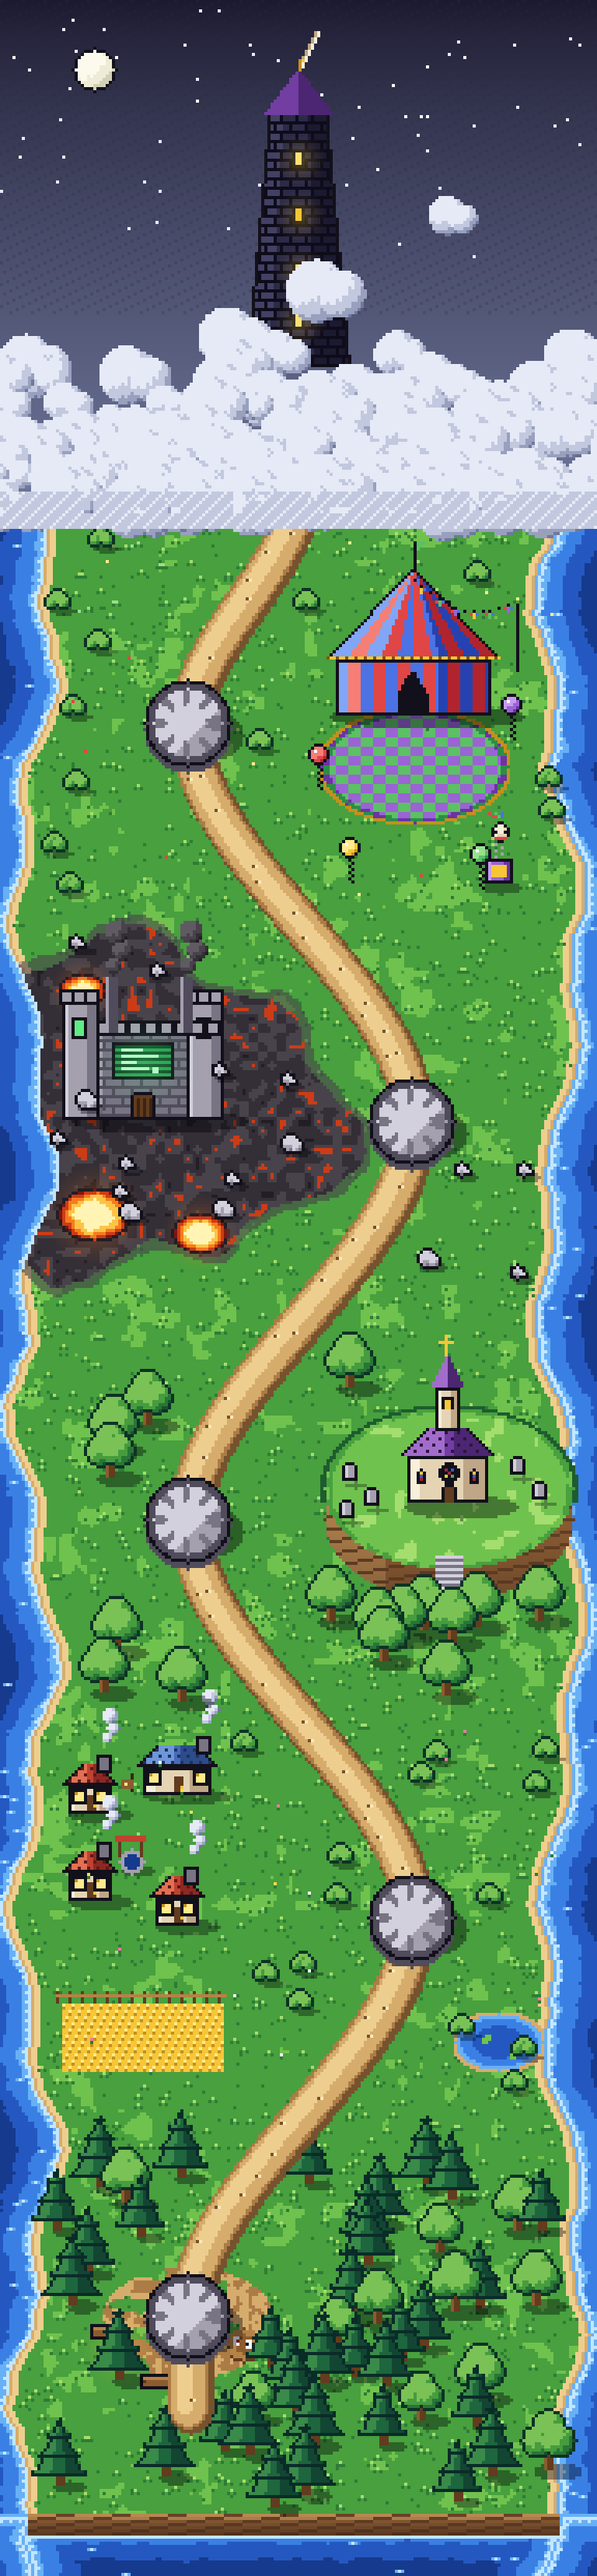
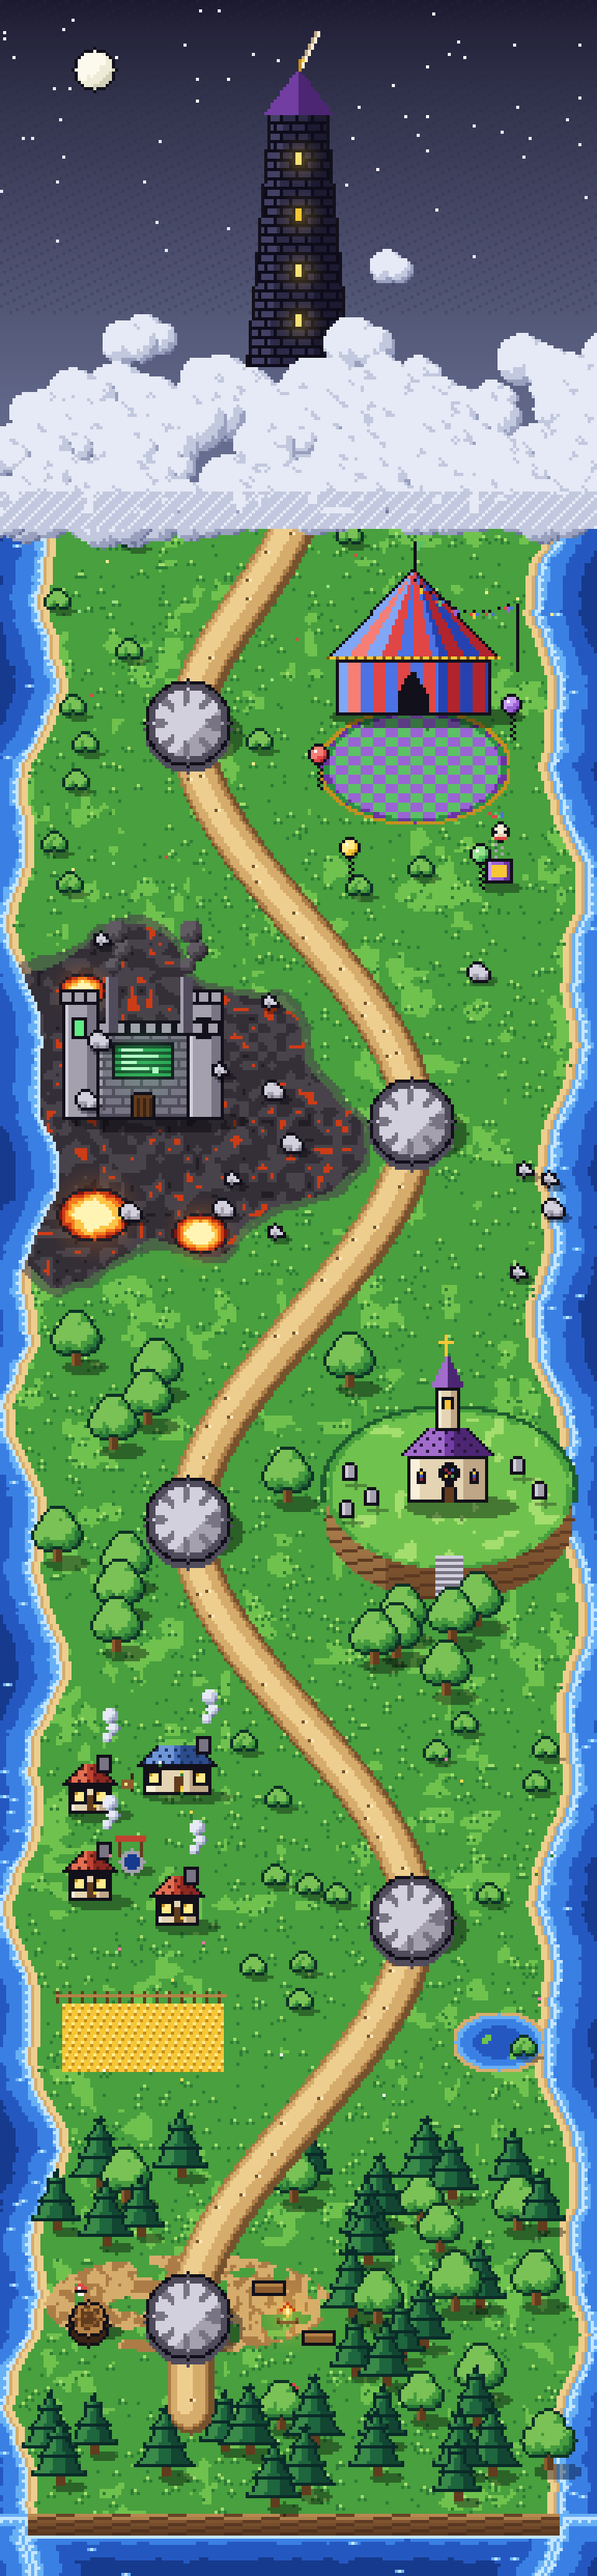
Map nodes always play their cutscene
Tapping a node, or continuing to the next one from the results screen,
plays its cutscene every time; Skip is always on screen. The separate
Story button on the map is gone.

Jake's campfire, stump and logs move beside his node so the map label
no longer hides them.

diff --git a/app/campaign.tsx b/app/campaign.tsx
@@ -10,8 +10,8 @@
  *   - available: unlocked but off the frontier (gap-y progress data)
  *   - locked:    dark marker, 🔒, tagline replaced by an unlock hint
  *
- * Tapping an unlocked node plays its cinematic on the first visit, then
- * goes to setup with that node's preset. Completed nodes stay playable.
+ * Tapping an unlocked node plays its cutscene every time (Skip is always
+ * on screen), then goes to setup with that node's preset. Completed nodes stay playable.
  *
  * Adding a node: paint its region in the map script and re-run it (see the
  * script's header). A test checks every campaign preset has a position.
@@ -51,7 +51,6 @@ const NODE_POS = OVERWORLD.nodes as Record<string, NodePos>;
 export default function CampaignScreen() {
   const router = useRouter();
   const completed = useCampaignStore((s) => s.completed);
-  const seenCinematics = useCampaignStore((s) => s.seenCinematics);
   const scrollRef = useRef<ScrollView>(null);
   const [width, setWidth] = useState(0);
   const [viewportH, setViewportH] = useState(0);
@@ -120,18 +119,11 @@ export default function CampaignScreen() {
                     scene={MAP_SCENES[id] ?? DEFAULT_SCENE}
                     state={stateFor(id)}
                     unlockHint={prevName ? `Beat ${prevName} to unlock` : null}
-                    onReplayStory={
-                      CINEMATICS[id] && seenCinematics[id]
-                        ? () =>
-                            router.push({ pathname: '/cinematic', params: { preset: id } })
-                        : null
-                    }
                     onPress={() => {
-                      // First visit plays the node's cinematic (if it has
-                      // one), which continues to setup itself.
-                      const cinematic = CINEMATICS[id] && !seenCinematics[id];
+                      // Every visit plays the node's cutscene (Skip is on
+                      // screen), which continues to setup itself.
                       router.push({
-                        pathname: cinematic ? '/cinematic' : '/setup',
+                        pathname: CINEMATICS[id] ? '/cinematic' : '/setup',
                         params: { preset: id },
                       });
                     }}
@@ -173,7 +165,6 @@ function MapNode({
   state,
   unlockHint,
   onPress,
-  onReplayStory,
 }: {
   x: number;
   y: number;
@@ -183,7 +174,6 @@ function MapNode({
   state: NodeState;
   unlockHint: string | null;
   onPress: () => void;
-  onReplayStory: (() => void) | null;
 }) {
   const locked = state === 'locked';
   const pulse = useRef(new Animated.Value(1)).current;
@@ -251,17 +241,6 @@ function MapNode({
         <Text style={styles.labelTagline} numberOfLines={2}>
           {locked ? unlockHint ?? 'Locked' : scene.tagline}
         </Text>
-        {onReplayStory && !locked && (
-          <Pressable
-            onPress={onReplayStory}
-            hitSlop={8}
-            style={styles.storyChip}
-            accessibilityRole="button"
-            accessibilityLabel={`Replay ${preset.name} story`}
-          >
-            <Text style={styles.storyChipText}>↺ Story</Text>
-          </Pressable>
-        )}
       </Pressable>
     </>
   );
@@ -333,18 +312,5 @@ const styles = StyleSheet.create({
     color: '#d8d8e0',
     fontSize: 10,
     marginTop: 1,
-  },
-  storyChip: {
-    marginTop: 4,
-    paddingVertical: 2,
-    paddingHorizontal: 8,
-    borderRadius: 3,
-    borderWidth: 1,
-    borderColor: 'rgba(248,200,48,0.6)',
-  },
-  storyChipText: {
-    color: '#f8c830',
-    fontSize: 10,
-    letterSpacing: 0.5,
   },
 });

diff --git a/app/game-over.tsx b/app/game-over.tsx
@@ -17,7 +17,6 @@ export default function GameOverScreen() {
   const reset = useGameStore((s) => s.reset);
   const campaignPresetId = useGameStore((s) => s.campaignPresetId);
   const completed = useCampaignStore((s) => s.completed);
-  const seenCinematics = useCampaignStore((s) => s.seenCinematics);
   const lastUnlockedId = useCampaignStore((s) => s.lastUnlockedId);
   const acknowledgeUnlock = useCampaignStore((s) => s.acknowledgeUnlock);
   const unlockedPreset = lastUnlockedId ? RULE_PRESETS[lastUnlockedId] : null;
@@ -94,13 +93,12 @@ export default function GameOverScreen() {
     router.replace(route);
   };
 
-  // Mirrors the map's node onPress: first visit to the next node plays its
-  // cinematic (which flows into setup itself); replays go straight to setup.
+  // Mirrors the map's node onPress: entering the next node plays its
+  // cutscene (which flows into setup itself; Skip is always on screen).
   const continueCampaign = () => {
     if (!nextNodeId) return;
-    const cinematic = CINEMATICS[nextNodeId] && !seenCinematics[nextNodeId];
     departTo({
-      pathname: cinematic ? '/cinematic' : '/setup',
+      pathname: CINEMATICS[nextNodeId] ? '/cinematic' : '/setup',
       params: { preset: nextNodeId },
     });
   };

diff --git a/app/cinematic.tsx b/app/cinematic.tsx
@@ -5,8 +5,8 @@
  * campaignStore on finish or skip, then replaces to /setup with the same
  * preset so the game flow continues seamlessly.
  *
- * Replays (the map's "↺ Story" chip) run the same flow: after the story,
- * you land on that node's setup, primed to play — backing out is one tap.
+ * Every tap on a map node plays its cutscene; Skip is always available.
+ * `seenCinematics` is still recorded, though nothing reads it right now.
  *
  * Scenes fade in on entry (image + caption together). expo-image renders
  * PNGs and animated GIF/WebP alike, so "simple GIF" scenes need no special

diff --git a/scripts/map/build_overworld.py b/scripts/map/build_overworld.py
@@ -335,23 +335,28 @@ def scatter(rng: random.Random, y0: int, y1: int, n: int, stamp, keep_clear: Cle
 def paint_jake(cv: Canvas, y0: int, side: str, rng: random.Random, clear: Clear) -> tuple[int, int]:
     """The old wood where Jake taught: deep forest around a firelit clearing."""
     nx, ny = NODE_X[side], y0 + BAND // 2
-    # clearing: trampled earth, a stump table with cards, the campfire
-    for yy in range(ny - 16, ny + 20):
-        for xx in range(nx - 28, nx + 28):
-            if ((xx - nx) / 28) ** 2 + ((yy - ny - 2) / 18) ** 2 <= 1 and noise(xx, yy, 5, 3) > 0.35:
+    # clearing: trampled earth, a stump table, the campfire.
+    # Props sit beside the node, not below it: the map's label covers the
+    # area under every node.
+    for yy in range(ny - 20, ny + 14):
+        for xx in range(nx - 46, nx + 46):
+            if ((xx - nx) / 46) ** 2 + ((yy - ny + 4) / 16) ** 2 <= 1 and noise(xx, yy, 5, 3) > 0.35:
                 cv.set(xx, yy, R['sand'][2] if noise(xx, yy, 2, 4) > 0.5 else R['sand'][1])
-    sx, sy = nx + 18, ny + 10
-    cv.shadow(sx + 2, sy + 2, 6, 2, 0.65)
-    cv.disc(sx, sy, 5, R['wood'][1])
+    sx, sy = nx - 32, ny + 2
+    cv.shadow(sx + 3, sy + 3, 8, 3, 0.6)
+    cv.disc(sx, sy + 1, 7, INK)
+    cv.disc(sx, sy + 1, 6, R['wood'][0])
+    cv.disc(sx, sy - 1, 6, INK)
     cv.disc(sx, sy - 1, 5, R['wood'][3])
     cv.disc(sx, sy - 1, 3, R['wood'][2])
-    cv.rect(sx - 3, sy - 3, 2, 3, WHITE)
-    cv.set(sx - 2, sy - 2, R['jred'][1])
-    cv.rect(sx + 1, sy - 2, 2, 3, WHITE)
-    cv.set(sx + 1, sy - 1, INK)
-    campfire(cv, nx - 22, ny + 12)
+    cv.disc(sx, sy - 1, 1, R['wood'][1])
+    for r in (4, 2):   # growth rings
+        for a in range(0, 360, 20):
+            cv.set(int(sx + r * math.cos(math.radians(a))), int(sy - 1 + r * math.sin(math.radians(a)) * 0.8),
+                   R['wood'][1])
+    campfire(cv, nx + 32, ny + 2)
     # logs to sit on
-    for lx, ly in [(nx - 30, ny + 4), (nx - 14, ny + 20)]:
+    for lx, ly in [(nx + 22, ny - 10), (nx + 38, ny + 6)]:
         cv.rect(lx, ly, 9, 3, R['wood'][2])
         cv.rect(lx, ly, 9, 1, R['wood'][3])
         cv.outline_rect(lx - 1, ly - 1, 11, 5)
@@ -360,7 +365,8 @@ def paint_jake(cv: Canvas, y0: int, side: str, rng: random.Random, clear: Clear)
         if not clear(mx, my):
             cv.sprite(mx, my, ['.rr.', 'rwrr', 'oooo', '.ww.'],
                       {'r': R['jred'][2], 'w': WHITE, 'o': INK})
-    forest = lambda x, y: clear(x, y) or ((x - nx) / 34) ** 2 + ((y - ny) / 24) ** 2 < 1
+    # tree canopies rise ~20px above their base, so keep bases well below
+    forest = lambda x, y: clear(x, y) or ((x - nx) / 54) ** 2 + ((y - ny - 8) / 32) ** 2 < 1
     scatter(rng, y0 + 18, y0 + BAND - 2, 46,
             lambda x, y: (pine if (x * 7 + y) % 3 else tree)(cv, x, y, 0.9 + (x % 3) * 0.1), forest)
     return nx, ny
